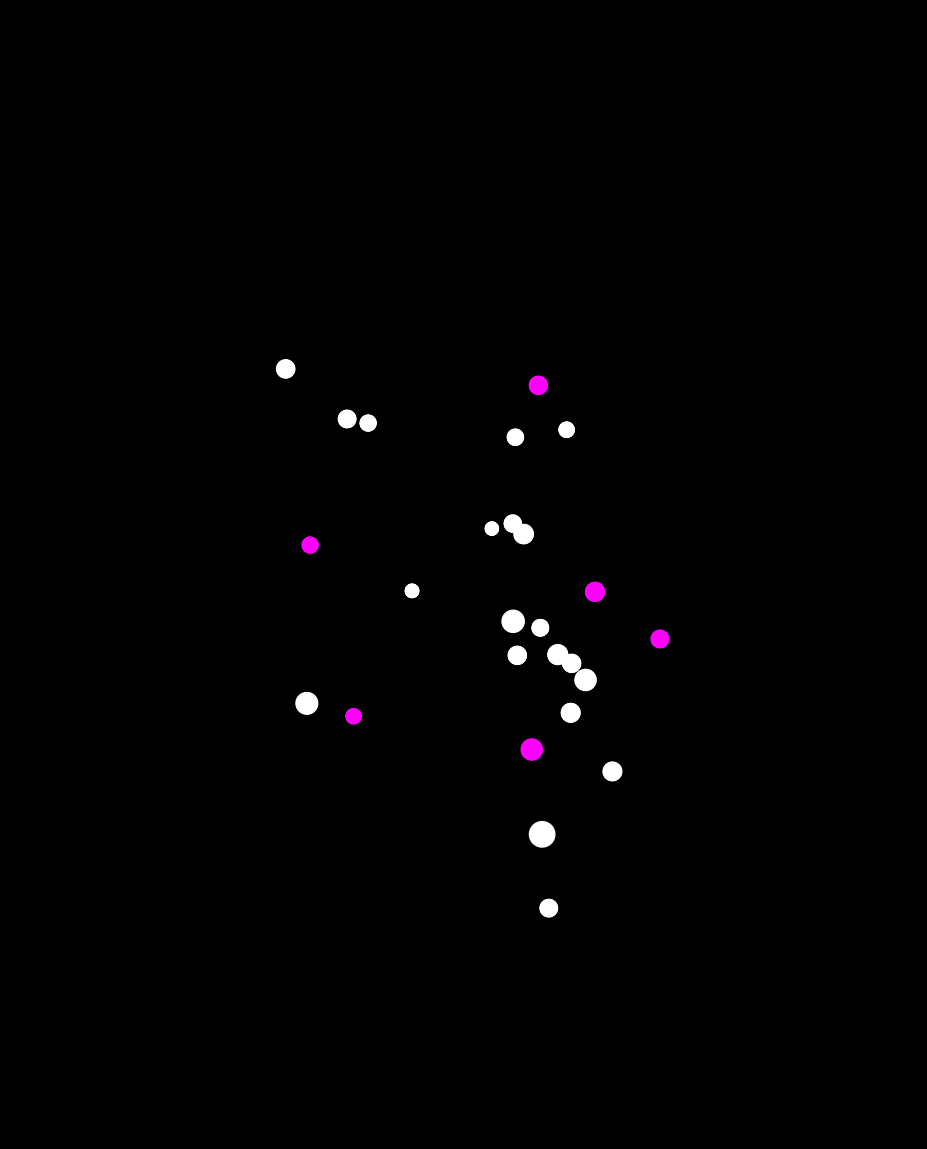
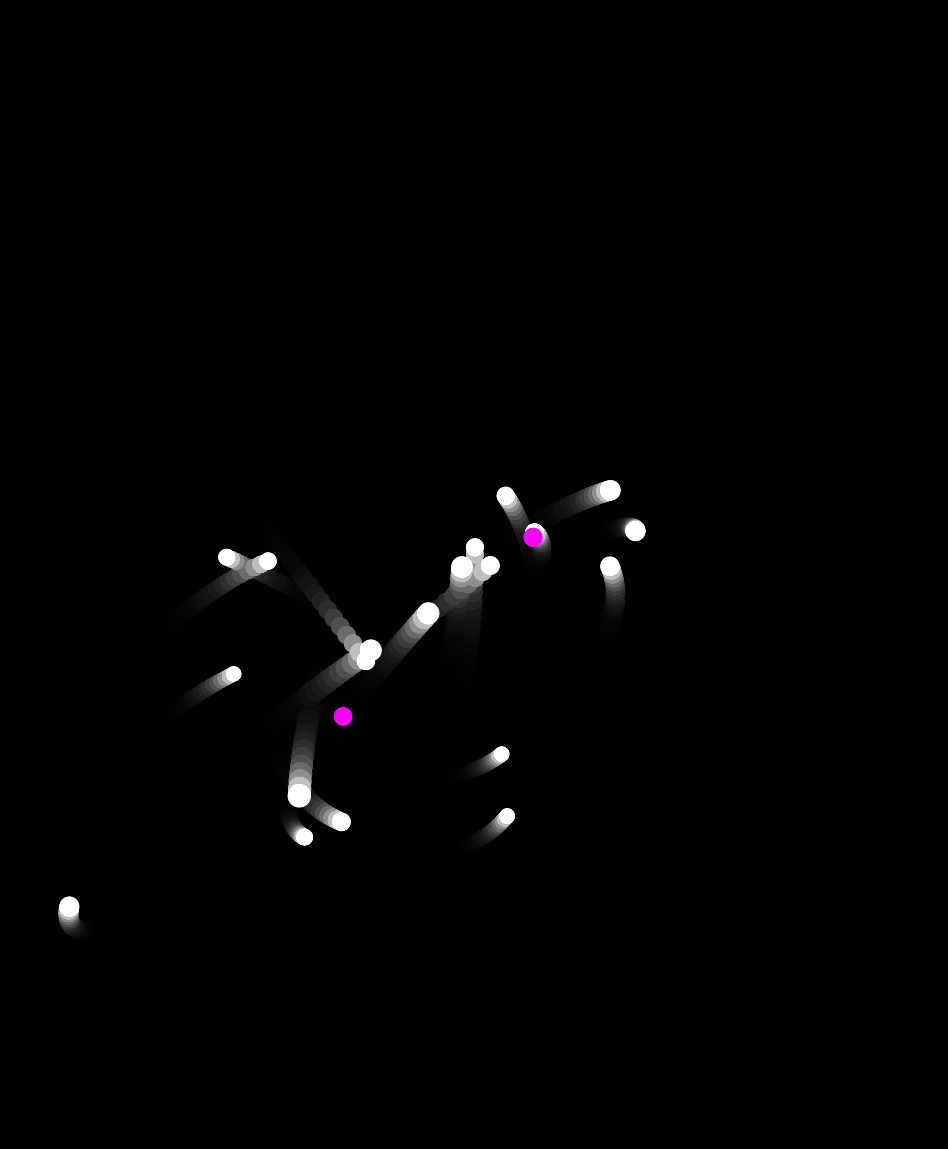
fix: particle last frame uv

diff --git a/src/demos/gravityParticles.ts b/src/demos/gravityParticles.ts
@@ -38,7 +38,7 @@ export class DemoGravityParticles implements Demo {
   initUI(refs: Refs, genOptions: GenOptions) {
     this.params = {
       particleNum: {
-        value: 2,
+        value: 20,
         range: [1, 1000] as Vec2,
         onChange: () => {
           this.buffers.particles = this.bufferCreator.particles();
@@ -46,7 +46,7 @@ export class DemoGravityParticles implements Demo {
         },
       },
       gravityNum: {
-        value: 1,
+        value: 2,
         range: [1, 10] as Vec2,
         onChange: () => {
           this.buffers.gravityParticles = this.bufferCreator.gravityParticles();
@@ -421,7 +421,7 @@ export class DemoGravityParticles implements Demo {
       // encoder.setPipeline(this.pipelines.drawParticle);
       // encoder.setBindGroup(0, this.bindGroups.frame);
       // encoder.setVertexBuffer(0, this.buffers.particles.gpuBuffer);
-      // encoder.draw(6, 20);
+      // encoder.draw(6, this.params.particleNum.value);
 
       encoder.setPipeline(this.pipelines.drawGravityParticles);
       encoder.setBindGroup(0, this.bindGroups.frame);
@@ -646,10 +646,11 @@ namespace WGSL {
     @fragment
     fn fragBlend(input: VsOut) -> @location(0) vec4<f32> {
       let currColor = textureSample(currFrame, textureSampler, input.uv);
-      let lastColor = textureSample(lastFrame, textureSampler, input.uv);
+      let lastColor = textureSample(lastFrame, textureSampler, vec2<f32>(input.uv.x, 1.0 - input.uv.y));
       // 然后需要混合 实现的效果为canvas的globalAlpha
       // 应该是lastColor 颜色是0.2, 然后当前current直接叠加即可, 
       // 那么也只是相当于修改了lastFrame的alpha然后进行正常的混合
+      // 修正uv之后拖尾的采样率增加一倍, 显得非常细腻
       let blendColor = 0.75 * lastColor.rgb + currColor.rgb;
       // 能有轨迹的效果了,但是速度快的时候会导致采样不足,会导致间隙
       // 所以canvas的做法是绘制一个连线, 从上一个位置连到当前位置
